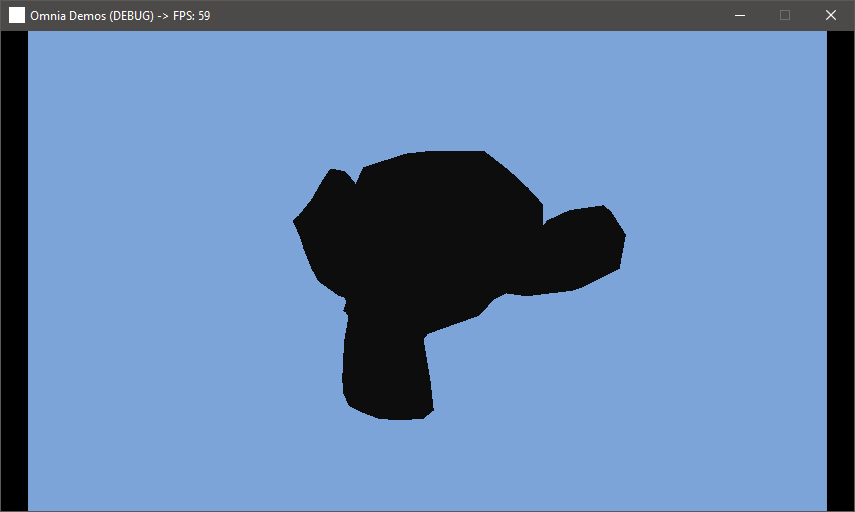
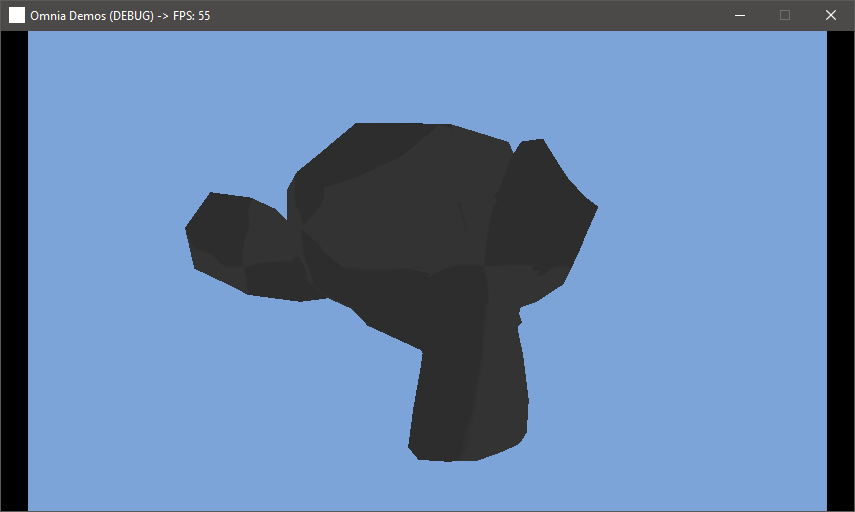
Updated README and demo images

Changed region(s): [[0.2129, 0.2188, 0.7298, 0.9062]]

diff --git a/README.md b/README.md
@@ -79,9 +79,9 @@ The name "Omnia" stems from the prefix "Omni-" which means "all." It is loosely 
 
 ## Demos
 
-Simple Clock
+Loading Models
 
-![screenshot](SimpleClock.png)
+![screenshot](loading_models.png)
 
 ## License
 
